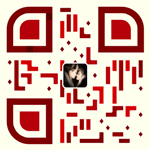
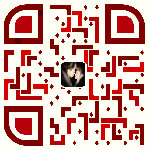
更换二维码

diff --git a/template/page-22.html b/template/page-22.html
@@ -1,5 +1,5 @@
 <div class="img img1">
-	<img src="/pc/images/qr_code_@2x.png" alt="二维码">
+	<img src="/pc/images/qr_code_@2X.png" alt="二维码">
 </div>
 <div class="text1">
 	<p>期待您的光临<br/>见证我们的幸福</p>
